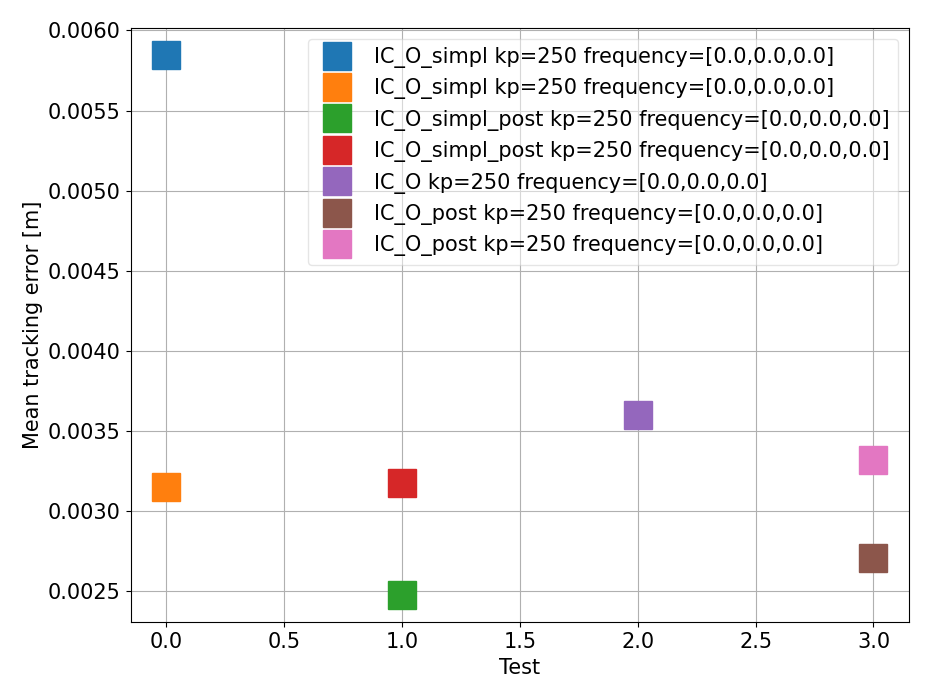
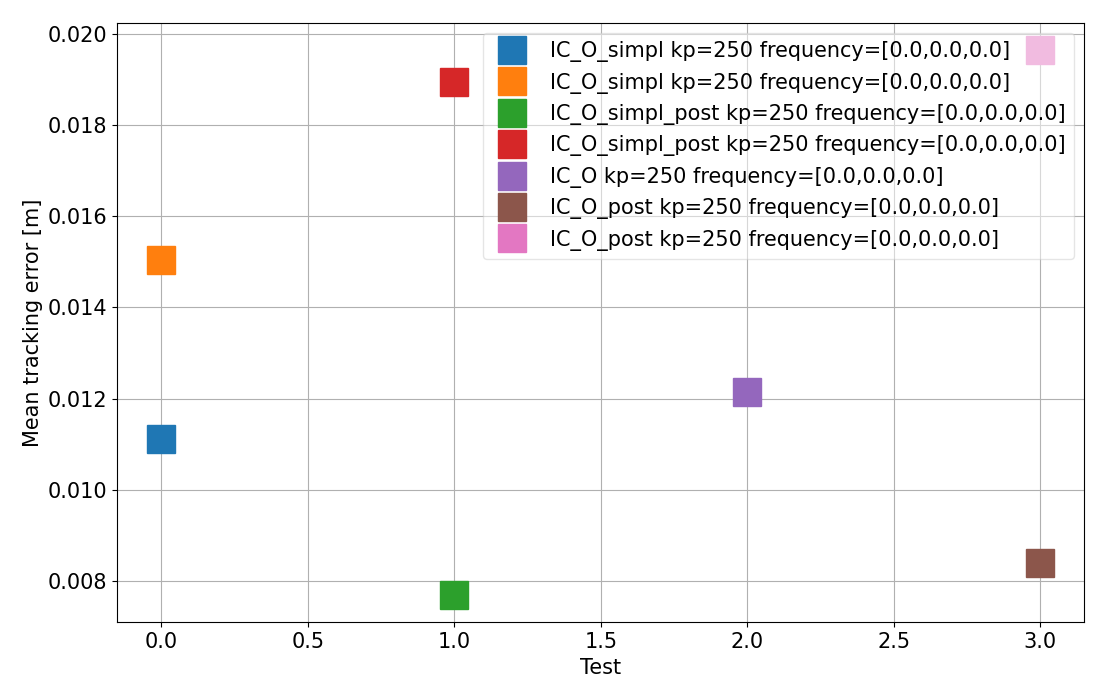
Update

diff --git a/Homeworks/working_dir/A1_Di_Casola-Sterlini.py b/Homeworks/working_dir/A1_Di_Casola-Sterlini.py
@@ -26,6 +26,14 @@ robot = RobotWrapper(r.model, r.collision_model, r.visual_model)
 if conf.TRACK_TRAJ:
     tests = []
     
+    '''
+    tests += [{'controller': 'OSC', 'kp': 100,  'frequency': np.array([1.0, 1.0, 0.3]),   'friction': 2}]
+    tests += [{'controller': 'IC',  'kp': 100,    'frequency': np.array([1.0, 1.0, 0.3]),   'friction': 2}]
+    tests += [{'controller': 'OSC', 'kp': 100,  'frequency': 3*np.array([1.0, 1.0, 0.3]), 'friction': 2}]
+    tests += [{'controller': 'IC',  'kp': 100,    'frequency': 3*np.array([1.0, 1.0, 0.3]), 'friction': 2}]
+    '''
+
+    # Improved controllers
     tests += [{'controller': 'OSC', 'kp': 500,  'frequency': np.array([1.0, 1.0, 0.3]),   'friction': 2}]
     tests += [{'controller': 'IC',  'kp': 100,    'frequency': np.array([1.0, 1.0, 0.3]),   'friction': 2}]
     tests += [{'controller': 'OSC', 'kp': 500,  'frequency': 3*np.array([1.0, 1.0, 0.3]), 'friction': 2}]
@@ -34,13 +42,13 @@ if conf.TRACK_TRAJ:
 else:
     tests = []
 
-    #tests += [{'controller': 'IC_O_simpl',  'kp': 250,  'frequency': np.array([0.0, 0.0, 0.0]),  'friction': 0}]        
-    #tests += [{'controller': 'IC_O_simpl_post',  'kp': 250,  'frequency': np.array([0.0, 0.0, 0.0]),'friction': 0}]    
+    tests += [{'controller': 'IC_O_simpl',  'kp': 250,  'frequency': np.array([0.0, 0.0, 0.0]),  'friction': 0}]        
+    tests += [{'controller': 'IC_O_simpl_post',  'kp': 250,  'frequency': np.array([0.0, 0.0, 0.0]),'friction': 0}]    
     #tests += [{'controller': 'IC_O',  'kp': 250, 'frequency': np.array([0.0, 0.0, 0.0]), 'friction': 0}]              
-    #tests += [{'controller': 'IC_O_post',  'kp': 250, 'frequency': np.array([0.0, 0.0, 0.0]), 'friction': 0}]         
+    tests += [{'controller': 'IC_O_post',  'kp': 250, 'frequency': np.array([0.0, 0.0, 0.0]), 'friction': 0}]         
 
     tests += [{'controller': 'IC_O_simpl',  'kp': 250,'frequency': np.array([0.0, 0.0, 0.0]), 'friction': 2}]        
-    tests += [{'controller': 'IC_O_simpl_post',  'kp': 250,'frequency': np.array([0.0, 0.0, 0.0]), 'friction': 50}]       
+    tests += [{'controller': 'IC_O_simpl_post',  'kp': 250,'frequency': np.array([0.0, 0.0, 0.0]), 'friction': 2}]       
     tests += [{'controller': 'IC_O',  'kp': 250,'frequency': np.array([0.0, 0.0, 0.0]), 'friction': 2}]               
     tests += [{'controller': 'IC_O_post',  'kp': 250,'frequency': np.array([0.0, 0.0, 0.0]), 'friction': 2}]       
 
@@ -71,7 +79,9 @@ for (test_id, test) in  enumerate(tests):
     kp = test['kp']             # proportional gain of tracking task
     kd = 2*np.sqrt(kp)          # derivative gain of tracking task
     
-    kp_j = 20.0                 # proportional gain of end effector task
+    # IMPROVED VALUE FOR POSTURAL TASK AND AVOID CHANGE IN CONFIGURATIONS
+    #kp_j = 20.0                 # proportional gain of end effector task
+    kp_j = kp/2.0              # proportional gain of end effector task
     kd_j = 2*sqrt(kp_j)         # derivative gain of end effector task
 
     freq = test['frequency']

diff --git a/my_orc/optimal_control/solutions/numerical_integration_sol_marco.py b/my_orc/optimal_control/solutions/numerical_integration_sol_marco.py
@@ -44,8 +44,30 @@ def rk4(x, h, u, t, ode, jacobian=False):
         dx = 1.0/6.0*(k1 + 2*k2 + 2*k3 + k4)
         x_next = x + h * dx
         return x_next, dx
+
+    (k1, f_x1, f_u1) = ode.f(x, u, t, jacobian=True)
+    (k2, f_x2, f_u2) = ode.f(x + 0.5 * h * k1, u, t, jacobian=True)
+    (k3, f_x3, f_u3) = ode.f(x + 0.5 * h * k2, u, t, jacobian=True)
+    (k4, f_x4, f_u4) = ode.f(x + h * k3, u, t, jacobian=True)
+
+    k1_x = f_x1
+    k2_x = f_x2 @ (np.eye(x.shape[0]) + 0.5 * h * k1_x)
+    k3_x = f_x3 @ (np.eye(x.shape[0]) + 0.5 * h * k2_x)
+    k4_x = f_x4 @ (np.eye(x.shape[0]) + h * k3_x)
+
+    phi_x = np.eye(x.shape[0]) + h * (k1_x + 2 * k2_x + 2 * k3_x + k4_x) / 6.0
+
+    k1_u = f_u1
+    k2_u = f_u2 + f_x2 @ (0.5 * h * k1_u)
+    k3_u = f_u3 + f_x3 @ (0.5 * h * k2_u)
+    k4_u = f_u4 + f_x4 @ (h * k3_u)
+
+    phi_u = h * (k1_u + 2 * k2_u + 2 * k3_u + k4_u) / 6.0
+
+    dx = (k1 + 2 * k2 + 2 * k3 + k4) / 6.0
+    x_next = x + h * dx
  
-    return x_next, dx, #phi_x, phi_u
+    return x_next, dx, phi_x, phi_u
 
 '''
 def semi_implicit_euler(x, h, u, t, ode):

diff --git a/Homeworks/working_dir/A1_conf.py b/Homeworks/working_dir/A1_conf.py
@@ -31,15 +31,15 @@ tau_coulomb_max = 0
 simulation_type = 'timestepping'                    # either 'timestepping' or 'euler'
 
 # ====================== ALLOWED TO BE CHANGED ======================
-randomize_robot_model = 1
+randomize_robot_model = 0
 model_variation = 40.0
 
 # ====================== ALLOWED TO BE CHANGED ======================
-use_viewer = 0
+use_viewer = 1
 
 which_viewer = "no_gepetto"
 # ====================== ALLOWED TO BE CHANGED ======================
-simulate_real_time = 0          # flag specifying whether simulation should be real time or as fast as possible
+simulate_real_time = 1          # flag specifying whether simulation should be real time or as fast as possible
 
 PRINT_T = 10                    # print some info every PRINT_T seconds
 DISPLAY_T = 0.02                # update robot configuration in viwewer every DISPLAY_T seconds
